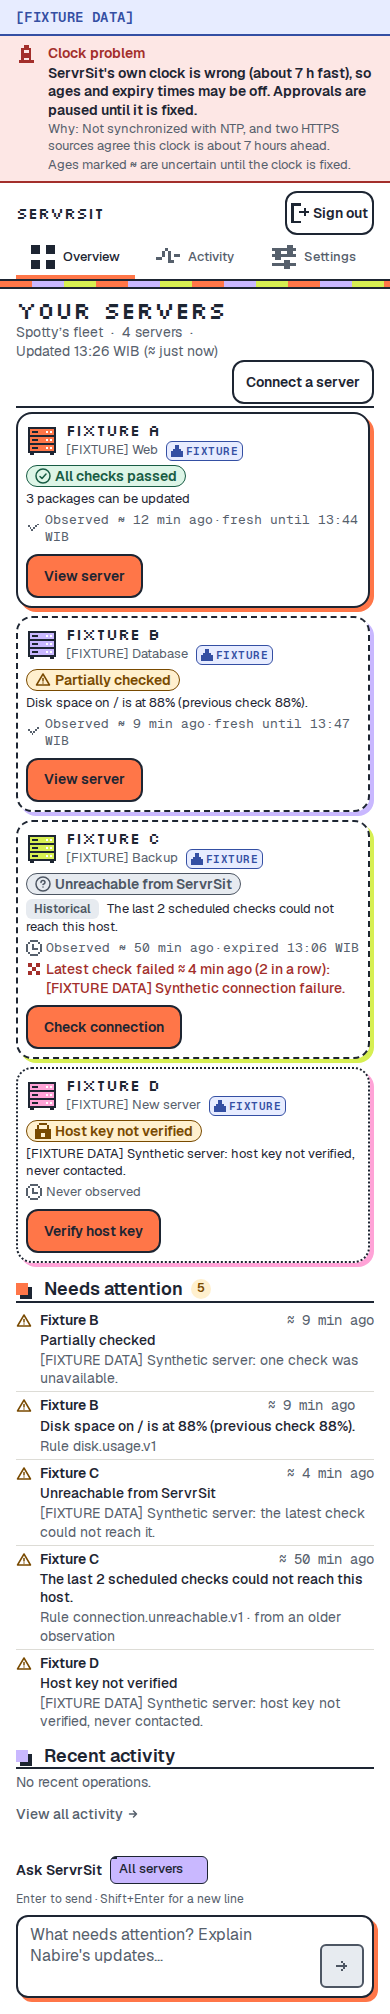
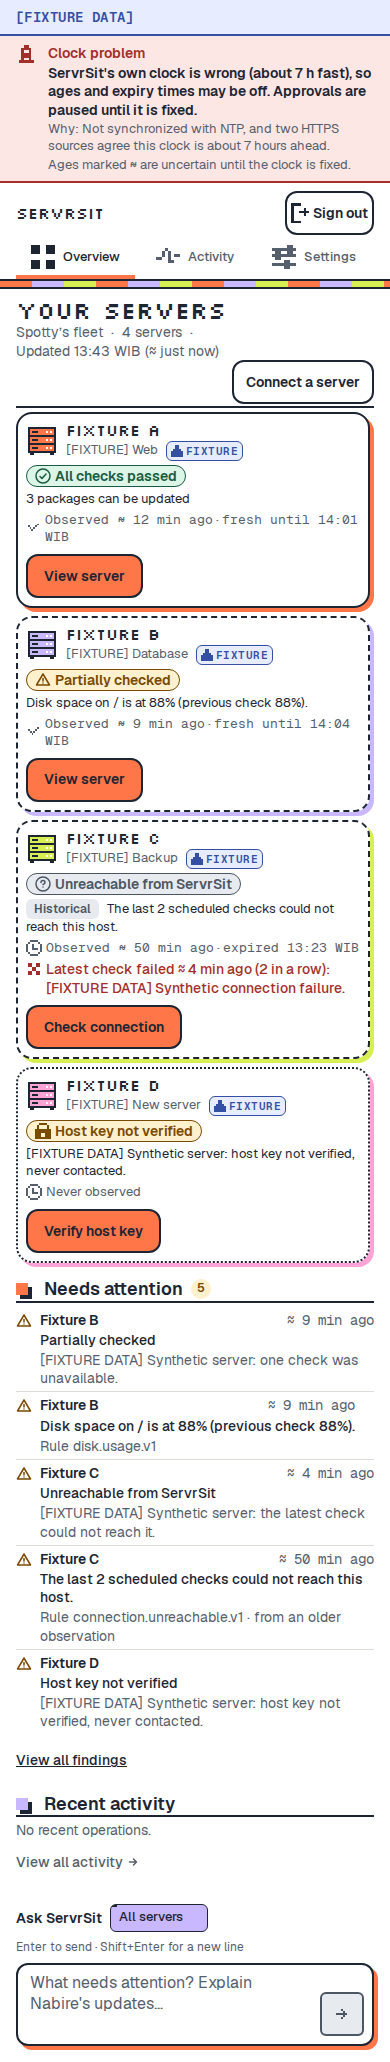
Overview fits the desktop window without page scroll (labelled internal scroll regions, +N more, View all findings); compact server mark in the 88px rail; re-shot review images 05, 06, 08

Changed region(s): [[0.0, 0.0, 1.0, 1.0], [0.8, 0.9543, 0.9538, 1.0], [0.0615, 0.0, 0.0923, 0.0308]]

diff --git a/apps/web/src/components/overview/OverviewScreen.tsx b/apps/web/src/components/overview/OverviewScreen.tsx
@@ -35,6 +35,8 @@ import { RecentActivity } from "./RecentActivity.js";
 import { ChatBar } from "./ChatBar.js";
 import type { OverviewVM } from "./fleetViewModel.js";
 import { CompactServerList } from "./CompactServerList.js";
+import { ScrollRegion } from "./ScrollRegion.js";
+import { PixelServerIcon } from "../server-card/PixelServerIcon.js";
 import {
   applyOrder, effectiveView, offersList, orderDiffers, orderIds, parsePrefs, PREFS_KEY, serializePrefs, SORT_LABEL,
   type OverviewPrefs, type SortKey,
@@ -77,6 +79,8 @@ export function OverviewScreen({ vm, onRetry }: OverviewScreenProps) {
       <nav className={styles.nav} aria-label="Main navigation">
         <div className={styles.wordmark}>
           <span className="sr-only">ServrSit</span>
+          {/* The 88 px rail only has room for a compact mark; the full wordmark shows in the top bar below 1200 px and on every other page. */}
+          <PixelServerIcon variant="lilac" size={32} className={styles.railMark} />
           <span className={`${styles.wordmarkText} pixel-text`} aria-hidden="true">
             <span className={styles.wordmarkStack}>Servr</span>
             <span className={styles.wordmarkStack}>Sit</span>
@@ -223,13 +227,18 @@ export function OverviewScreen({ vm, onRetry }: OverviewScreenProps) {
               </div>
             )}
 
-            {count > 0 && view === "list" && <CompactServerList servers={ordered} />}
-            {count > 0 && view === "cards" && (
-              <div className={styles.rosterGrid}>
-                {ordered.map((server) => (
-                  <ServerCard key={server.id} server={server} />
-                ))}
-              </div>
+            {count > 0 && (
+              <ScrollRegion label="Servers" className={styles.rosterScroll}>
+                {view === "list" ? (
+                  <CompactServerList servers={ordered} />
+                ) : (
+                  <div className={styles.rosterGrid}>
+                    {ordered.map((server) => (
+                      <ServerCard key={server.id} server={server} />
+                    ))}
+                  </div>
+                )}
+              </ScrollRegion>
             )}
           </section>
 
@@ -239,7 +248,7 @@ export function OverviewScreen({ vm, onRetry }: OverviewScreenProps) {
             <RecentActivity operations={[]} />
           </div>
 
-          {!empty && <ChatBar servers={vm.servers.map((s) => ({ id: s.id, name: s.name }))} timeZone={vm.timeZone} />}
+          {!empty && <div className={styles.chatSlot}><ChatBar servers={vm.servers.map((s) => ({ id: s.id, name: s.name }))} timeZone={vm.timeZone} /></div>}
         </div>
       </main>
     </div>

diff --git a/apps/web/src/components/overview/OverviewScreen.module.css b/apps/web/src/components/overview/OverviewScreen.module.css
@@ -58,6 +58,9 @@
 
 .wordmarkStack { display: block; }
 
+/* Compact rail mark: shown only in the 88 px rail (≥1200px). Below that the top bar has room for the full wordmark. */
+.railMark { display: block; width: 32px; height: 32px; }
+
 .navList {
   list-style: none;
   display: flex;
@@ -448,3 +451,23 @@
 .orderNote { flex: 1 1 100%; font-size: var(--text-compact-size); color: var(--color-muted-ink); }
 .linkButton { display: inline; min-height: var(--touch-target-min); padding: 0 var(--space-half); color: var(--color-ink); font: inherit; font-weight: var(--font-weight-semibold); text-decoration: underline; }
 @media (forced-colors: active) { .viewToggle button[aria-pressed="true"] { forced-color-adjust: none; background: Highlight; color: HighlightText; } }
+
+/* ── Desktop: fit the window, no page scroll (founder review 001) ─────────
+ * ≥1200px and ≥620px tall: the shell is exactly the window. The roster takes
+ * the height left over and scrolls inside itself if it must; Needs attention
+ * and Recent activity share a capped band and scroll inside their own lists;
+ * the chat bar stays visible at the bottom. Shorter or narrower windows keep
+ * the normal flowing page. */
+@media (min-width: 1200px) and (min-height: 620px) {
+  .appShell { height: 100vh; height: 100dvh; min-height: 0; overflow: hidden; }
+  .main { display: flex; flex-direction: column; min-height: 0; overflow: hidden; }
+  .contentWrapper { flex: 1 1 auto; min-height: 0; padding-bottom: var(--space-2); gap: var(--space-1-half); }
+  .roster { flex: 1 1 auto; min-height: 9rem; display: flex; flex-direction: column; }
+  .rosterScroll { flex: 1 1 auto; min-height: 0; overflow: auto; overscroll-behavior: contain; }
+  .rosterScroll:focus-visible { outline: 2px solid var(--color-focus); outline-offset: 2px; }
+  .lowerGrid { flex: 0 1 auto; min-height: 0; max-height: min(28dvh, 14rem); align-items: stretch; }
+  .chatSlot { flex: none; }
+}
+/* The rail exists from 1200px: compact mark there, full wordmark in the top bar below it. */
+@media (min-width: 1200px) { .wordmarkText { display: none; } }
+@media (max-width: 1199px) { .railMark { display: none; } }

diff --git a/apps/web/src/components/overview/ScrollRegion.tsx b/apps/web/src/components/overview/ScrollRegion.tsx
@@ -1,0 +1,40 @@
+/**
+ * ScrollRegion — a labelled region that may scroll internally on desktop (the
+ * Overview fits the window without page scrolling). It is a keyboard stop
+ * (tabIndex 0) only while its content actually overflows, so a short list adds
+ * no empty Tab stop; when it overflows axe requires exactly that.
+ *
+ * `onHidden` reports how many direct list items are cut off below the visible
+ * area ("+N more"), updated on resize and scroll.
+ */
+import { useLayoutEffect, useRef, useState, type ReactNode } from "react";
+
+export function ScrollRegion({ label, className, children, onHidden }: { label: string; className?: string | undefined; children: ReactNode; onHidden?: (n: number) => void }) {
+  const ref = useRef<HTMLDivElement | null>(null);
+  const [scrollable, setScrollable] = useState(false);
+
+  useLayoutEffect(() => {
+    const el = ref.current;
+    if (!el) return;
+    const measure = (): void => {
+      setScrollable(el.scrollHeight > el.clientHeight + 1);
+      if (onHidden) {
+        const items = [...el.querySelectorAll(":scope > ul > li, :scope > li")] as HTMLElement[];
+        const bottom = el.scrollTop + el.clientHeight + 1;
+        onHidden(el.scrollHeight > el.clientHeight + 1 ? items.filter((li) => li.offsetTop + li.offsetHeight > bottom).length : 0);
+      }
+    };
+    measure();
+    const ro = typeof ResizeObserver === "undefined" ? null : new ResizeObserver(measure);
+    ro?.observe(el);
+    for (const child of Array.from(el.children)) ro?.observe(child);
+    el.addEventListener("scroll", measure, { passive: true });
+    return () => { ro?.disconnect(); el.removeEventListener("scroll", measure); };
+  });
+
+  return (
+    <div ref={ref} role="group" aria-label={label} tabIndex={scrollable ? 0 : undefined} className={className}>
+      {children}
+    </div>
+  );
+}

diff --git a/apps/web/src/components/overview/AttentionColumn.tsx b/apps/web/src/components/overview/AttentionColumn.tsx
@@ -7,7 +7,9 @@
  * "Avoid filling every available gap. With no findings, it becomes a small quiet
  * note and the roster can expand."
  */
+import { useState } from "react";
 import type { AttentionItemVM } from "./fleetViewModel.js";
+import { ScrollRegion } from "./ScrollRegion.js";
 import styles from "./AttentionColumn.module.css";
 
 interface AttentionColumnProps {
@@ -37,6 +39,7 @@ function FindingIcon({ severity }: { severity: "attention" | "failed" }) {
 }
 
 export function AttentionColumn({ findings, unavailable = false, noServers = false }: AttentionColumnProps) {
+  const [hidden, setHidden] = useState(0);
   if (noServers) {
     return (
       <section className={styles.column} aria-labelledby="attention-heading">
@@ -72,6 +75,7 @@ export function AttentionColumn({ findings, unavailable = false, noServers = fal
           <span className="sr-only"> items</span>
         </span>
       </h2>
+      <ScrollRegion label="Needs attention, list of findings" className={styles.scroll} onHidden={setHidden}>
       <ul className={styles.list} role="list">
         {findings.map((finding) => (
           <li key={finding.id} className={`${styles.finding} ${styles[finding.severity]}`}>
@@ -93,6 +97,11 @@ export function AttentionColumn({ findings, unavailable = false, noServers = fal
           </li>
         ))}
       </ul>
+      </ScrollRegion>
+      <p className={styles.footer}>
+        {hidden > 0 && <span role="status">+{hidden} more, scroll the list. </span>}
+        <a href="/findings">View all findings</a>
+      </p>
     </section>
   );
 }

diff --git a/apps/web/src/components/overview/RecentActivity.tsx b/apps/web/src/components/overview/RecentActivity.tsx
@@ -4,7 +4,9 @@
  * UX Spec §5.2: "Recent activity: a compact list below the roster,
  * not another wall of metrics."
  */
+import { useState } from "react";
 import type { RecentOperationFixture } from "../../fixtures/overview.js";
+import { ScrollRegion } from "./ScrollRegion.js";
 import styles from "./RecentActivity.module.css";
 
 interface RecentActivityProps {
@@ -56,12 +58,14 @@ function getStateClass(state: string): string {
 }
 
 export function RecentActivity({ operations }: RecentActivityProps) {
+  const [hidden, setHidden] = useState(0);
   return (
     <section className={styles.section} aria-labelledby="activity-heading">
       <h2 id="activity-heading" className={styles.heading}>Recent activity</h2>
       {operations.length === 0 ? (
         <p className={styles.empty}>No recent operations.</p>
       ) : (
+        <ScrollRegion label="Recent activity, list of operations" className={styles.scroll} onHidden={setHidden}>
         <ul className={styles.list} role="list">
           {operations.map((op) => {
             const stateClass = getStateClass(op.state);
@@ -83,8 +87,10 @@ export function RecentActivity({ operations }: RecentActivityProps) {
             );
           })}
         </ul>
+        </ScrollRegion>
       )}
 
+      {hidden > 0 && <p className={styles.moreNote} role="status">+{hidden} more, scroll the list.</p>}
       <a href="/activity" className={styles.viewAll}>
         View all activity
         <svg width="12" height="12" viewBox="0 0 12 12" fill="none" aria-hidden="true" focusable="false">

diff --git a/apps/web/src/components/overview/RecentActivity.module.css b/apps/web/src/components/overview/RecentActivity.module.css
@@ -175,3 +175,14 @@
   color: var(--color-muted-ink);
   margin: 0;
 }
+
+/* Desktop: the list gets the height left by the roster and chat and scrolls inside it
+   (no page scroll at 1200px and wider, T-076 review). Elsewhere it flows normally. */
+.scroll { min-height: 0; position: relative; }
+.scroll:focus-visible { outline: 2px solid var(--color-focus); outline-offset: 2px; }
+.footer, .moreNote { margin: var(--space-half) 0 0; font-size: var(--text-compact-size); line-height: var(--text-compact-line-height); color: var(--color-muted-ink); }
+.footer a { display: inline-flex; align-items: center; min-height: var(--touch-target-min); color: var(--color-ink); font-weight: var(--font-weight-medium); text-decoration: underline; }
+@media (min-width: 1200px) and (min-height: 620px) {
+  .section { min-height: 0; max-height: 100%; }
+  .scroll { flex: 1 1 auto; overflow: auto; overscroll-behavior: contain; padding-right: var(--space-half); }
+}

diff --git a/apps/web/src/components/overview/AttentionColumn.module.css b/apps/web/src/components/overview/AttentionColumn.module.css
@@ -148,3 +148,14 @@
   color: var(--color-muted-ink);
   margin: 0;
 }
+
+/* Desktop: the list gets the height left by the roster and chat and scrolls inside it
+   (no page scroll at 1200px and wider, T-076 review). Elsewhere it flows normally. */
+.scroll { min-height: 0; position: relative; }
+.scroll:focus-visible { outline: 2px solid var(--color-focus); outline-offset: 2px; }
+.footer, .moreNote { margin: var(--space-half) 0 0; font-size: var(--text-compact-size); line-height: var(--text-compact-line-height); color: var(--color-muted-ink); }
+.footer a { display: inline-flex; align-items: center; min-height: var(--touch-target-min); color: var(--color-ink); font-weight: var(--font-weight-medium); text-decoration: underline; }
+@media (min-width: 1200px) and (min-height: 620px) {
+  .column { min-height: 0; max-height: 100%; }
+  .scroll { flex: 1 1 auto; overflow: auto; overscroll-behavior: contain; padding-right: var(--space-half); }
+}

diff --git a/docs/team/evidence/review-001/index.md b/docs/team/evidence/review-001/index.md
@@ -7,7 +7,7 @@ Screenshots of every screen and key state, each at **1440×900** (desktop) and *
 - **Nothing here is a real server of yours.** Every server, plan, operation, finding, activity record and baseline in these images is invented sample data, and each of those screens carries the `[FIXTURE DATA]` banner (or an invented "Fixture …" name) in the image. The sign-in, setup and recovery-code screens are the real screens running against a throw-away test copy of the API; the account, the codes and the QR key in them were created for the test and mean nothing.
 - **No image shows live data.** The live screens (Overview, server detail, plan and operation pages on the founder's real servers) are not included because they would show real server names and facts. Where an image says "fixture", the screen itself is real but its data is synthetic.
 - The yellow "Clock not checked" banner appears on most images because the test API runs in fixture mode, which does not check its own clock. Image 06 shows the red-flag version of the same banner, when ServrSit's clock is wrong.
-- Long pages are shown whole. Pages taller than 3000 px are cut at 3000 px and the line says so.
+- At 1440 the Overview fits the window without page scrolling; the roster, Needs attention and Recent activity scroll inside labelled regions (keyboard reachable) when they have more than fits. Other long pages are shown whole. Pages taller than 3000 px are cut at 3000 px and the line says so.
 
 ## Images
 
@@ -17,10 +17,10 @@ Format: `file`: what it shows. Data: ...
 - `02-setup-account-1440.png`: First-run setup, step 1: setup token, username, password with strength hint (filled in). Data: live UI on a local test API (no real servers, no real data).
 - `03-setup-authenticator-1440.png`: First-run setup, step 2: QR code drawn in the browser, the key as text, code confirmation. Data: live UI on a local test API (no real servers, no real data).
 - `04-recovery-codes-1440.png`: First-run setup, step 3: the ten recovery codes, shown once (sample codes from the test account). Data: live UI on a local test API (no real servers, no real data).
-- `05-overview-1440.png`: Overview with four sample servers: cards, needs-attention list, recent activity, Ask bar. Data: [FIXTURE] (the test API runs in fixture mode: servers A to D are invented).
-- `06-overview-clock-untrusted-1440.png`: Overview while ServrSit's own clock is wrong: persistent banner, ages marked with ≈, approvals paused. Data: [FIXTURE] (the clock state is injected into sample data).
+- `05-overview-1440.png`: Overview with four sample servers: cards, needs-attention list, recent activity, Ask bar. At 1440 the whole page fits the window (no page scroll); the left rail shows the compact server mark instead of the wrapped wordmark. Data: [FIXTURE] (the test API runs in fixture mode: servers A to D are invented).
+- `06-overview-clock-untrusted-1440.png`: Overview while ServrSit's own clock is wrong: persistent banner, ages marked with ≈, approvals paused. The taller banner leaves less height, so the lists scroll inside their own labelled regions ("+3 more, scroll the list" and "View all findings") and the Ask bar stays at the bottom. Data: [FIXTURE] (the clock state is injected into sample data).
 - `07-overview-empty-1440.png`: Overview with no servers: "Let's meet your first server." and one action. Data: [FIXTURE].
-- `08-overview-compact-20-1440.png`: Overview with 20 servers in the compact list, sorted by what needs attention. Data: [FIXTURE] (20 invented servers).
+- `08-overview-compact-20-1440.png`: Overview with 20 servers in the compact list, sorted by what needs attention. The roster and Needs attention scroll inside their own labelled regions ("+14 more, scroll the list"); the page itself does not scroll at 1440. Data: [FIXTURE] (20 invented servers).
 - `09-server-detail-1440.png`: Server detail: status, findings, resources, Care (pending updates, reboot) and read-only Settings. Data: [FIXTURE] (invented server shown through the real page; its data is synthetic).
 - `10-connect-1-meet-1440.png`: Connect a server, step 1: name, address, port, user, role, production (Not sure selected, with its note). Data: [FIXTURE].
 - `11-connect-2-verify-1440.png`: Connect a server, step 2: the owner's fingerprint matches what ServrSit sees; the independent-source confirmation is ticked. Data: [FIXTURE].
@@ -42,10 +42,10 @@ Format: `file`: what it shows. Data: ...
 - `02-setup-account-390.png`: First-run setup, step 1: setup token, username, password with strength hint (filled in). Data: live UI on a local test API (no real servers, no real data).
 - `03-setup-authenticator-390.png`: First-run setup, step 2: QR code drawn in the browser, the key as text, code confirmation. Data: live UI on a local test API (no real servers, no real data).
 - `04-recovery-codes-390.png`: First-run setup, step 3: the ten recovery codes, shown once (sample codes from the test account). Data: live UI on a local test API (no real servers, no real data).
-- `05-overview-390.png`: Overview with four sample servers: cards, needs-attention list, recent activity, Ask bar. Data: [FIXTURE] (the test API runs in fixture mode: servers A to D are invented).
-- `06-overview-clock-untrusted-390.png`: Overview while ServrSit's own clock is wrong: persistent banner, ages marked with ≈, approvals paused. Data: [FIXTURE] (the clock state is injected into sample data).
+- `05-overview-390.png`: Overview with four sample servers: cards, needs-attention list, recent activity, Ask bar. At 1440 the whole page fits the window (no page scroll); the left rail shows the compact server mark instead of the wrapped wordmark. Data: [FIXTURE] (the test API runs in fixture mode: servers A to D are invented).
+- `06-overview-clock-untrusted-390.png`: Overview while ServrSit's own clock is wrong: persistent banner, ages marked with ≈, approvals paused. The taller banner leaves less height, so the lists scroll inside their own labelled regions ("+3 more, scroll the list" and "View all findings") and the Ask bar stays at the bottom. Data: [FIXTURE] (the clock state is injected into sample data).
 - `07-overview-empty-390.png`: Overview with no servers: "Let's meet your first server." and one action. Data: [FIXTURE].
-- `08-overview-compact-20-390.png`: Overview with 20 servers in the compact list, sorted by what needs attention (page is 5476px tall; the image shows the first 3000px). Data: [FIXTURE] (20 invented servers).
+- `08-overview-compact-20-390.png`: Overview with 20 servers in the compact list, sorted by what needs attention. The roster and Needs attention scroll inside their own labelled regions ("+14 more, scroll the list"); the page itself does not scroll at 1440 (page is 5476px tall; the image shows the first 3000px). Data: [FIXTURE] (20 invented servers).
 - `09-server-detail-390.png`: Server detail: status, findings, resources, Care (pending updates, reboot) and read-only Settings. Data: [FIXTURE] (invented server shown through the real page; its data is synthetic).
 - `10-connect-1-meet-390.png`: Connect a server, step 1: name, address, port, user, role, production (Not sure selected, with its note). Data: [FIXTURE].
 - `11-connect-2-verify-390.png`: Connect a server, step 2: the owner's fingerprint matches what ServrSit sees; the independent-source confirmation is ticked. Data: [FIXTURE].
